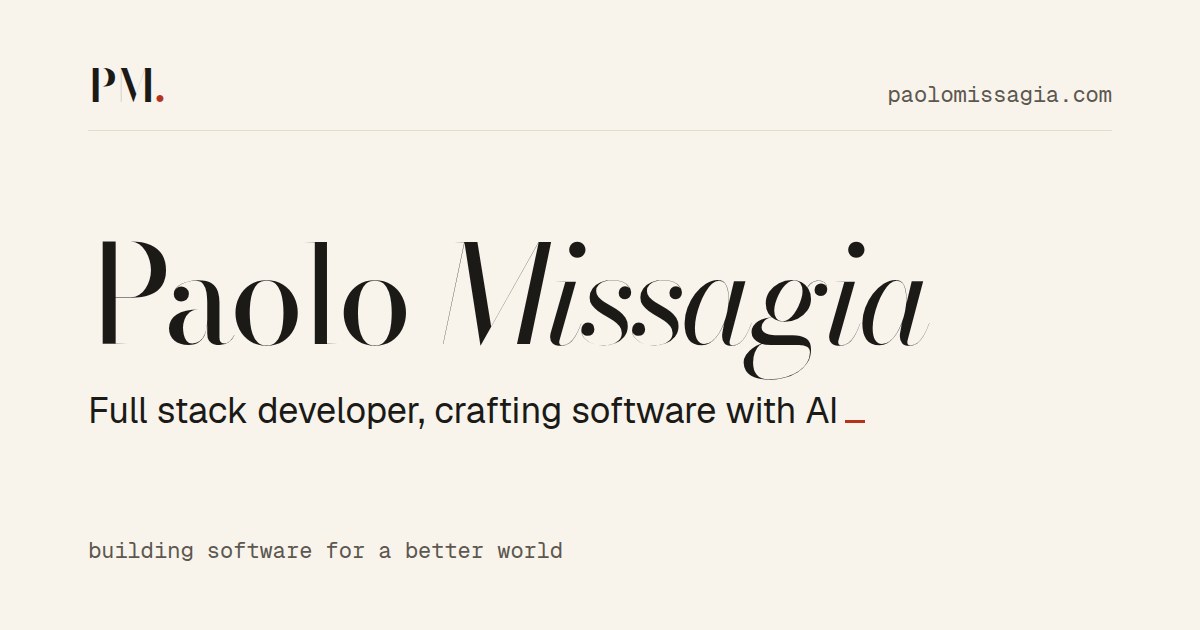
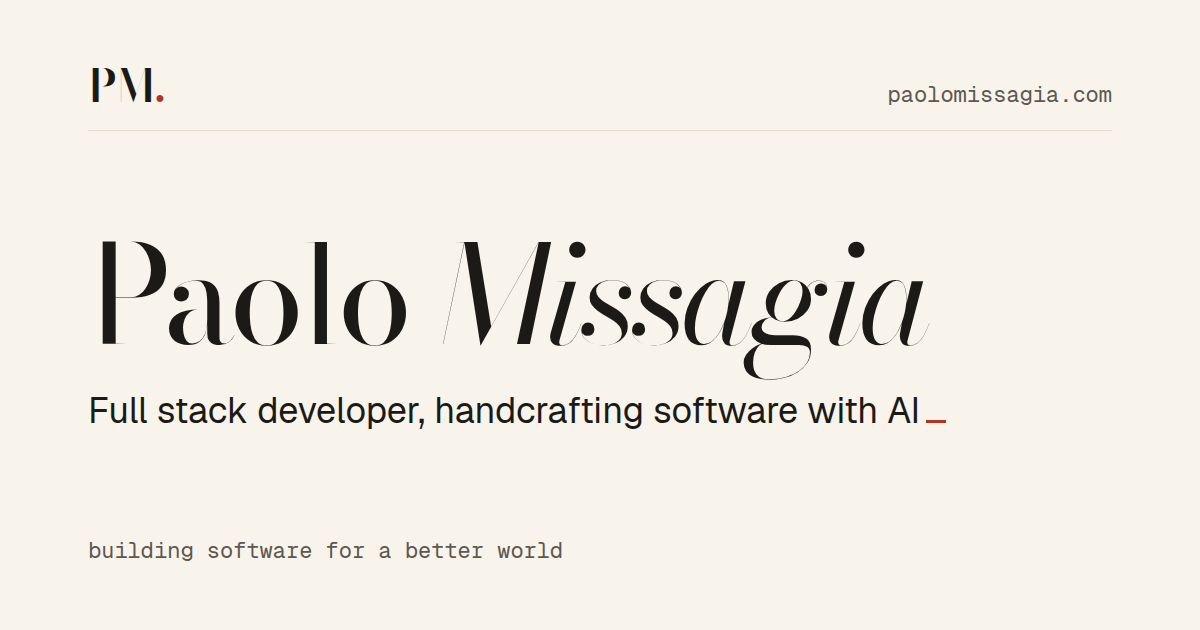
handcrafting software with AI in the hero; footer is just the copyright

Changed region(s): [[0.3392, 0.6333, 0.7708, 0.6937]]

diff --git a/index.html b/index.html
@@ -11,17 +11,17 @@
     <title>Paolo Missagia · Full stack developer</title>
     <meta
       name="description"
-      content="Paolo Missagia, full stack developer, crafting software with AI. Experience, projects, how I build and contact."
+      content="Paolo Missagia, full stack developer, handcrafting software with AI. Experience, projects, how I build and contact."
     />
     <link rel="canonical" href="https://www.paolomissagia.com/" />
     <meta property="og:type" content="profile" />
     <meta property="og:url" content="https://www.paolomissagia.com/" />
     <meta property="og:title" content="Paolo Missagia" />
-    <meta property="og:description" content="Full stack developer, crafting software with AI." />
+    <meta property="og:description" content="Full stack developer, handcrafting software with AI." />
     <meta property="og:image" content="https://www.paolomissagia.com/og.png" />
     <meta property="og:image:width" content="1200" />
     <meta property="og:image:height" content="630" />
-    <meta property="og:image:alt" content="Paolo Missagia, full stack developer, crafting software with AI" />
+    <meta property="og:image:alt" content="Paolo Missagia, full stack developer, handcrafting software with AI" />
     <meta name="twitter:card" content="summary_large_image" />
     <script type="application/ld+json">
       {

diff --git a/src/pages/Home.tsx b/src/pages/Home.tsx
@@ -25,7 +25,7 @@ export function Home() {
               Paolo <em>Missagia</em>
             </h1>
             <p className="hero-line">
-              Full stack developer, crafting software with AI
+              Full stack developer, handcrafting software with AI
               <span className="cursor" aria-hidden="true" />
             </p>
             <p className="hero-sub">Currently at MAPAL Group.</p>

diff --git a/scripts/og-image.html b/scripts/og-image.html
@@ -75,7 +75,7 @@
     </div>
     <div>
       <h1>Paolo <em>Missagia</em></h1>
-      <p>Full stack developer, crafting software with AI<span class="cursor"></span></p>
+      <p>Full stack developer, handcrafting software with AI<span class="cursor"></span></p>
     </div>
     <span class="mono">building software for a better world</span>
   </body>

diff --git a/src/components/Layout.tsx b/src/components/Layout.tsx
@@ -31,7 +31,6 @@ export function Layout({ children }: { children: ReactNode }) {
 
       <footer className="colophon">
         <span>© {YEAR} Paolo Missagia</span>
-        <span>Handcrafted with AI</span>
       </footer>
     </div>
   )

diff --git a/BRAND.md b/BRAND.md
@@ -26,9 +26,9 @@ First person, British English, short sentences.
 | Mention Italy as a plain fact, with warmth | Clichés: pizza, mandolins, "la dolce vita" |
 | Let the projects show the interests: Sonatina says opera and classical music, biketoride says cycling | A hobbies section, or generic hobbies to fill space ("I love travelling and coffee") |
 
-Taglines: ***Handcrafted with AI.*** (the signature, in the footer) · *Software, crafted with AI.* · *Italian craft, built with AI.*
+Taglines: ***Handcrafting software with AI.*** (the signature, in the hero) · *Software, crafted with AI.* · *Italian craft, built with AI.*
 
-Hero line: *Full stack developer, crafting software with AI.*
+Hero line: *Full stack developer, handcrafting software with AI.*
 
 **Craft and AI go together.** Never "made by hand", "handwritten" or "no AI" on their own, which read as anti-AI; *handcrafted* always travels with *with AI*; never "AI-generated" or "built by AI", which erase the craft. Say *handcrafted with AI*, *crafted with AI*, *built with AI agents*: the person is the subject, the AI is the tool.
 
@@ -103,7 +103,7 @@ The pairing is the brand in miniature: an eighteenth-century Italian serif for t
 
 ## Signature elements
 
-- **The hero as a title page.** Name in large Bodoni, one line on what he does ("Full stack developer, crafting software with AI"), set on generous paper with nothing else competing. A vermilion text cursor blinks after the last line, a nod to the terminal the old site was built around (static with reduced motion).
+- **The hero as a title page.** Name in large Bodoni, one line on what he does ("Full stack developer, handcrafting software with AI"), set on generous paper with nothing else competing. A vermilion text cursor blinks after the last line, a nod to the terminal the old site was built around (static with reduced motion).
 - **Margin notes.** On wide screens, short mono annotations sit in the left margin beside the text they belong to, like a scholar's notes in an old book or a log from the tools: `building software for a better world`. Use them sparingly: one in the hero is enough. On narrow screens they drop above their paragraph. This is where the agentic work lives visually: quiet, factual, always there.
 - **The method in three steps** under *Metodo*: **Brief** (a brand and a spec before any code), **Build** (agents write much of the code, he steers), **Check** (he reviews every change; tests and sources keep it honest). Numbered because it is a real sequence.
 - **Workshop cards for projects.** Each project is a card with its name in Bodoni, one sentence on what it does, and a link. No stack or build details. Each card shows a swatch of exactly two of that project's own colours (its dark, then its accent), a craftsman showing different pieces from the same bench.
